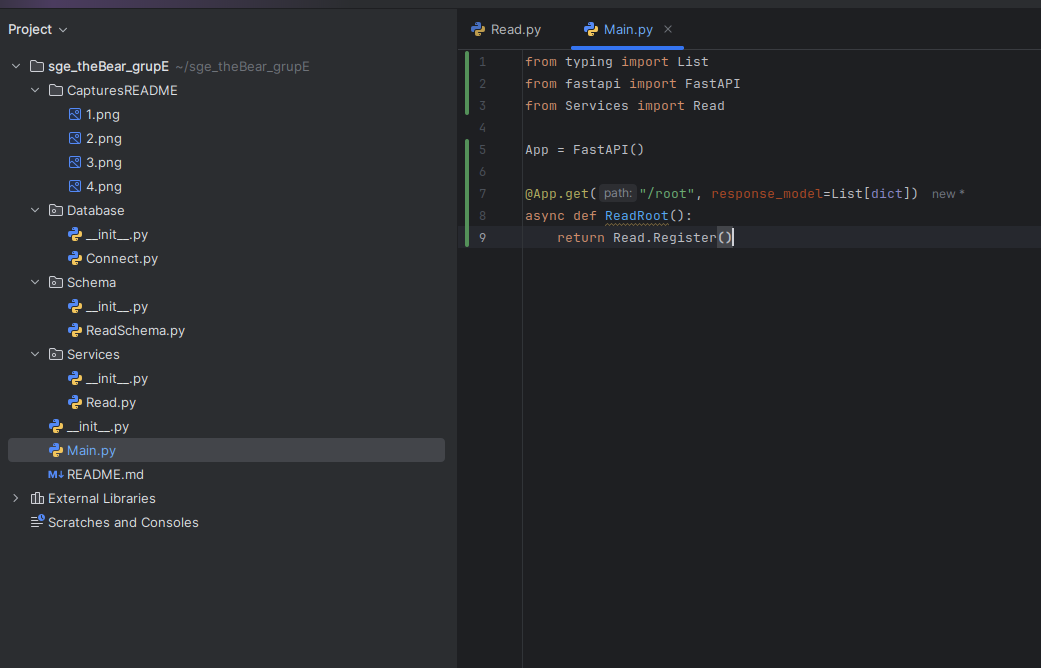
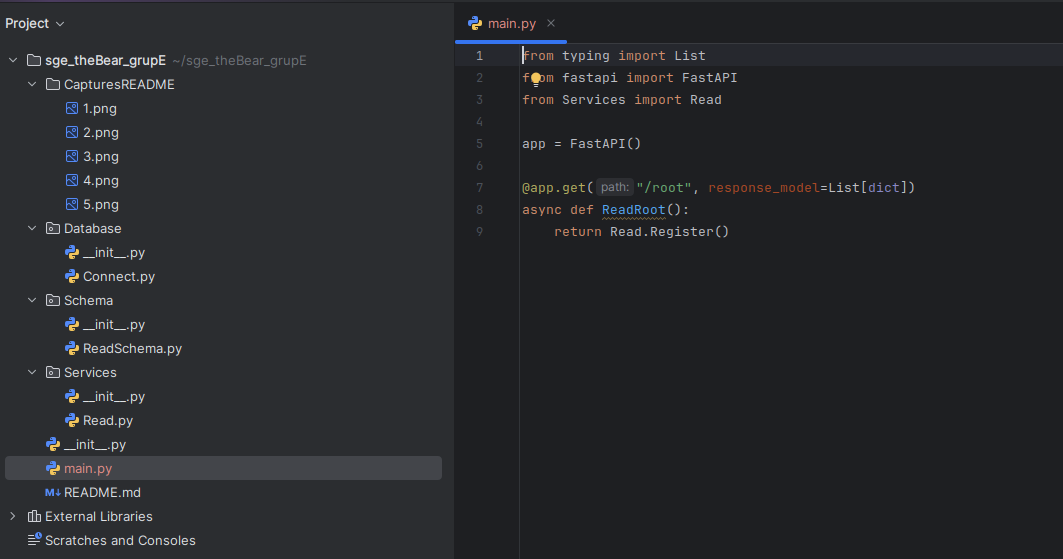
Main.py acabat // Corregit

diff --git a/main.py b/main.py
@@ -2,8 +2,8 @@ from typing import List
 from fastapi import FastAPI
 from Services import Read
 
-App = FastAPI()
+app = FastAPI()
 
-@App.get("/root", response_model=List[dict])
+@app.get("/root", response_model=List[dict])
 async def ReadRoot():
     return Read.Register()
